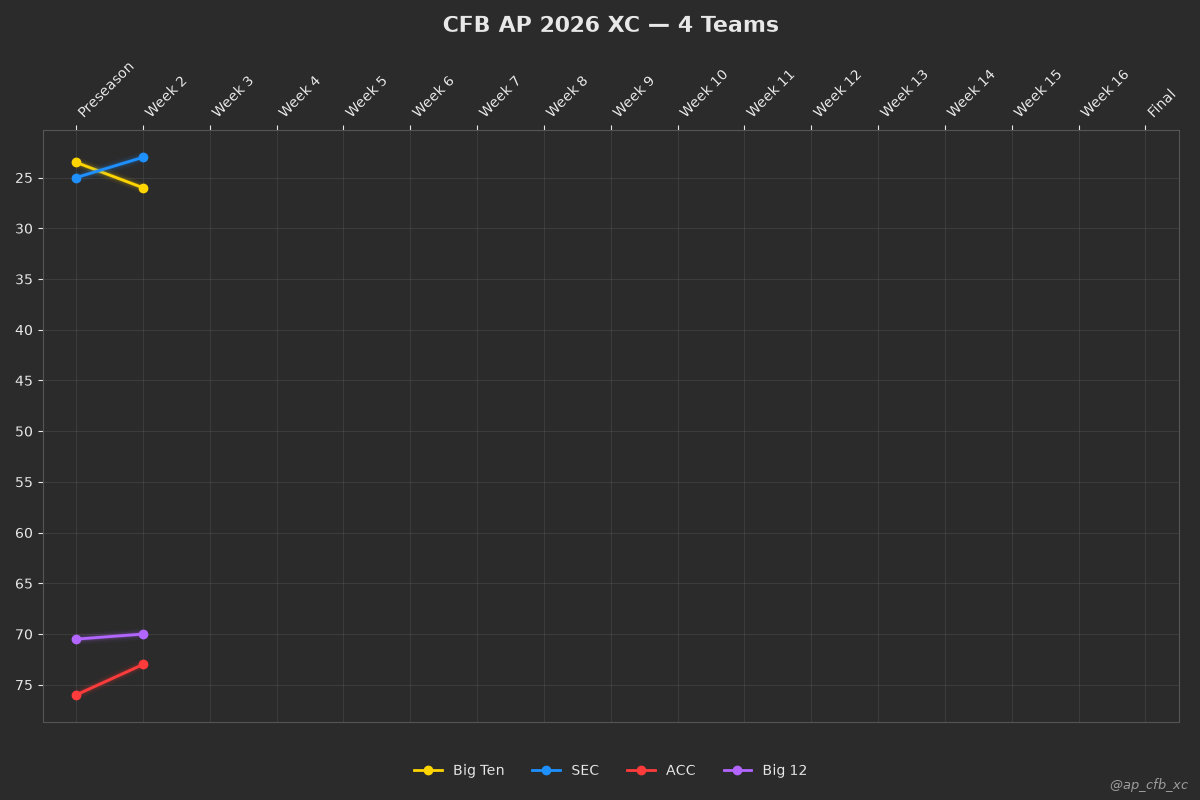
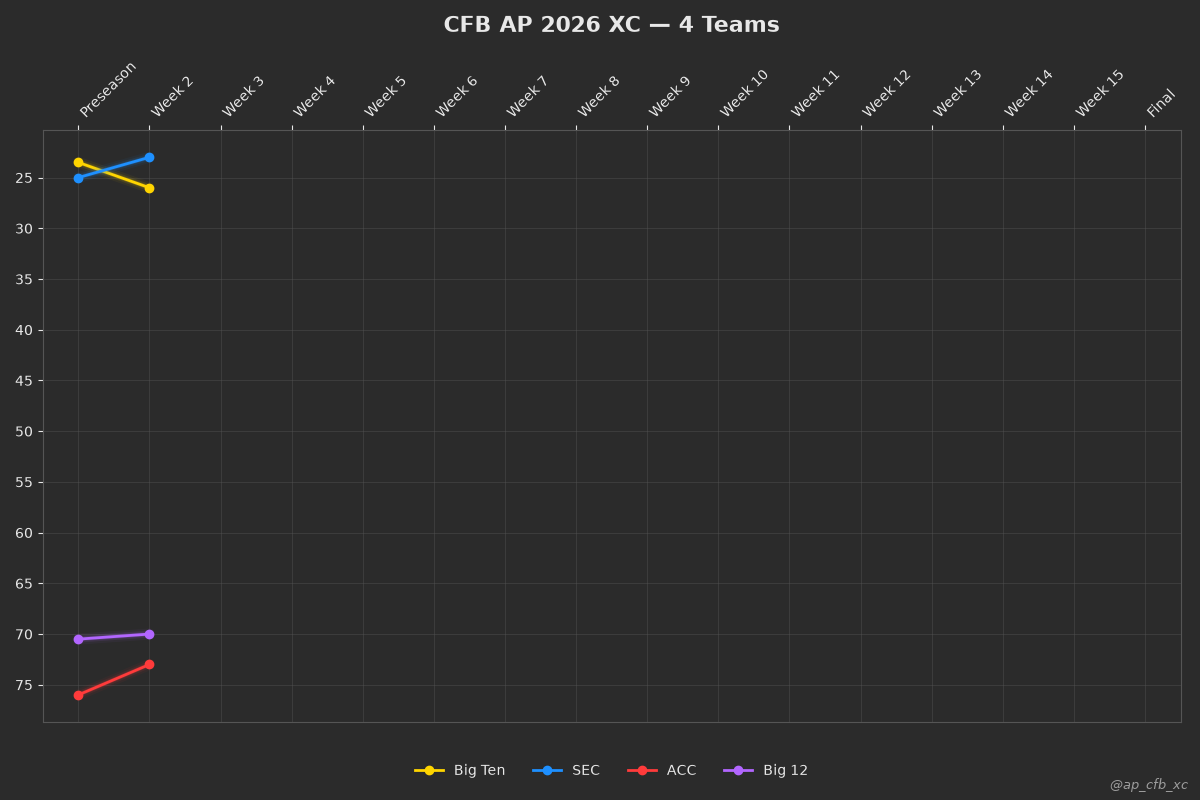
Improve handling of Week 16 for years where that week isn't played (eg, 2023, 2026)

diff --git a/store_data.py b/store_data.py
@@ -1,3 +1,4 @@
+import json
 import os
 import warnings
 import numpy as np
@@ -131,19 +132,64 @@ def summarize_data(
     return summary_df
 
 
-def suppress_unused_week_16(df: pd.DataFrame) -> pd.DataFrame:
+def _season_meta_file(year: int) -> str:
+    return os.path.join(os.getcwd(), "data", str(year), "season_meta.json")
+
+
+def get_regular_season_week_count(year: int):
+    """Return the cached regular-season week count for `year` (15 or 16) if we've already recorded
+    it (see record_regular_season_week_count()), else None."""
+    meta_file = _season_meta_file(year)
+    if not os.path.exists(meta_file):
+        return None
+    with open(meta_file) as f:
+        return json.load(f).get("regular_season_weeks")
+
+
+def record_regular_season_week_count(year: int) -> int:
+    """Fetch (once) and cache how many regular-season weeks `year`'s schedule actually has, straight
+    from ESPN's published season structure. This lets us know ahead of time - even at Preseason -
+    whether a 'Week 16' AP poll will ever exist for this season, rather than waiting to see if it
+    ever gets populated."""
+    cached = get_regular_season_week_count(year)
+    if cached is not None:
+        return cached
+
+    week_count = epi.get_regular_season_week_count(year)
+    meta_file = _season_meta_file(year)
+    os.makedirs(os.path.dirname(meta_file), exist_ok=True)
+    with open(meta_file, "w") as f:
+        json.dump({"regular_season_weeks": week_count}, f)
+    print(f"Recorded {year} regular season week count: {week_count}")
+    return week_count
+
+
+def suppress_unused_week_16(df: pd.DataFrame, year: int = None) -> pd.DataFrame:
     """Drop a leftover, unused 'Week 16' row from a week-indexed summary DataFrame (Issue #22).
 
     The weekly summary shell always reserves a 'Week 16' slot, because in years with a "weird Labor
     Day falling" every team gets an extra bye and the season really does run a 16th polling week. In a
     normal season, though, the schedule only ever reaches 'Week 15' before 'Final', leaving 'Week 16'
-    as a permanent empty placeholder. We only drop it once we can confirm the season actually
-    finished with no real Week 16 data (Week 15 and Final both scored, but Week 16 didn't) - a season
-    that genuinely used all 16 weeks keeps its Week 16 row untouched.
+    as a permanent empty placeholder.
+
+    If `year` is given and we have its regular-season week count cached (record_regular_season_week_
+    count() is called during every weekly store), we use that directly - definitive, and available
+    even mid-season. Otherwise (older seasons stored before this metadata existed) we fall back to
+    inferring it from the data: only drop 'Week 16' once we can confirm the season actually finished
+    with no real Week 16 data (Week 15 and Final both scored, but Week 16 didn't).
 
     :param df: DataFrame indexed by week label (e.g. after set_index("Week")/set_index(idx_header))
+    :param year: season year, used to look up the cached, definitive week count if available
     """
-    if not {"Week 15", "Week 16", "Final"}.issubset(df.index):
+    if "Week 16" not in df.index:
+        return df
+
+    if year is not None:
+        known_week_count = get_regular_season_week_count(year)
+        if known_week_count is not None:
+            return df.drop(index="Week 16") if known_week_count < 16 else df
+
+    if not {"Week 15", "Final"}.issubset(df.index):
         return df
 
     week_15_has_data = df.loc["Week 15"].notna().any()
@@ -174,11 +220,13 @@ def is_final_week_recorded(summary_df: pd.DataFrame) -> bool:
     return bool(final_rows[conference_cols].notna().any().any())
 
 
-def pretty_print_year_data(whole_year_df: pd.DataFrame) -> pd.DataFrame:
+def pretty_print_year_data(
+    whole_year_df: pd.DataFrame, year: int = None
+) -> pd.DataFrame:
     """This will print the summary statistics for the whole year (thus far) in an aesthetically pleasing manner for use in reports, social media posts, etc."""
     # Set the week label as the index
     whole_year_df = whole_year_df.set_index(whole_year_df.columns[0])
-    whole_year_df = suppress_unused_week_16(whole_year_df)
+    whole_year_df = suppress_unused_week_16(whole_year_df, year=year)
     # Step 1: Remove rows and columns that have all null values
     df_cleaned = whole_year_df.dropna(axis=1, how="all")
     df_cleaned = df_cleaned.dropna(axis=0, how="all")
@@ -222,6 +270,11 @@ def write_weekly_results(
     year, week = epi.date_processing(year, week)
     week = what_week_is_current(week=week, year=year)
 
+    # Cache this season's actual regular-season week count (15 or 16), straight from ESPN's published
+    # schedule, so we can definitively suppress an unused Week 16 mid-season rather than waiting to
+    # see if it's ever populated (Issue #22).
+    record_regular_season_week_count(year)
+
     # Define base directory and subdirectories
     base_dir = os.path.join(os.getcwd(), "data", str(year))
     team_dir = quad if four_team_race else pent
@@ -256,7 +309,7 @@ def write_weekly_results(
 
     if epi.string_to_bool(pretty_print):
         # Generate a nice-looking output of the summary data.
-        pretty_print_year_data(the_summary_data)
+        pretty_print_year_data(the_summary_data, year=year)
 
     # Write updated summary statistics to CSV
     try:

diff --git a/graph_data.py b/graph_data.py
@@ -60,6 +60,7 @@ def generate_graph(
     title: str = "Weekly Results",
     show: bool = True,
     drop_empty_weeks: bool = True,
+    year: int = None,
 ) -> plt.plot:
     """
     :param drop_empty_weeks: if True (default), weeks/rows with no data at all across every
@@ -67,11 +68,14 @@ def generate_graph(
         chart, where an in-progress season shouldn't appear as an empty x-axis category. Pass False
         to keep every not-yet-reached week visible as a blank stretch of x-axis instead (used for the
         current season's weekly chart, so the plot visually shows how far into the season we are).
+    :param year: season year, used (if we've cached it - see store_data.record_regular_season_week_
+        count()) to definitively suppress an unused "Week 16" even mid-season, rather than waiting
+        until Week 15 and Final are both recorded to infer it from the data.
     """
     # Set Week column as index
     summary_stats_df.set_index("Week", inplace=True)
     # Drop the unused "Week 16" placeholder for seasons that only ran 15 weeks (Issue #22)
-    summary_stats_df = sd.suppress_unused_week_16(summary_stats_df)
+    summary_stats_df = sd.suppress_unused_week_16(summary_stats_df, year=year)
 
     # Drop columns (conferences) with no data all season; optionally also drop empty week rows
     df_cleaned = summary_stats_df
@@ -212,7 +216,7 @@ def graph_year(year: int, num_scoring_teams: int = 5, show: bool = True) -> plt.
 
     title = f"CFB AP {year} XC — {num_scoring_teams} Teams"
     # Keep every not-yet-reached week visible (blank) so the chart shows how far into the season we are
-    return generate_graph(df, title=title, show=show, drop_empty_weeks=False)
+    return generate_graph(df, title=title, show=show, drop_empty_weeks=False, year=year)
 
 
 def graph_final_rankings_by_year(

diff --git a/espn_api.py b/espn_api.py
@@ -238,6 +238,19 @@ def espn_api_url_generator(year=None, week=None) -> str:
     return url
 
 
+def get_regular_season_week_count(year) -> int:
+    """Ask ESPN how many regular-season weeks a given year's schedule actually has (15 or 16).
+
+    ESPN publishes each season's full week structure (types/2 = regular season) well before the
+    season starts, so this tells us ahead of time whether a Week 16 AP poll will ever exist for this
+    season - no need to wait until Week 15 and Final are both recorded to find out. Validated against
+    every season with known Week 16 data/absence in this repo's history (2014-2026): 100% match.
+    """
+    base_espn_api_pth = "http://sports.core.api.espn.com/v2/sports/football/leagues/college-football/seasons/"
+    url = f"{base_espn_api_pth}{year}/types/2/weeks?limit=20"
+    return api_json_response(url)["count"]
+
+
 def extract_week_from_url(url: str) -> str:
     """From the ESPN API URL, figure out what week it is.
     Use result of espn_api_url_generator() function as string input."""
